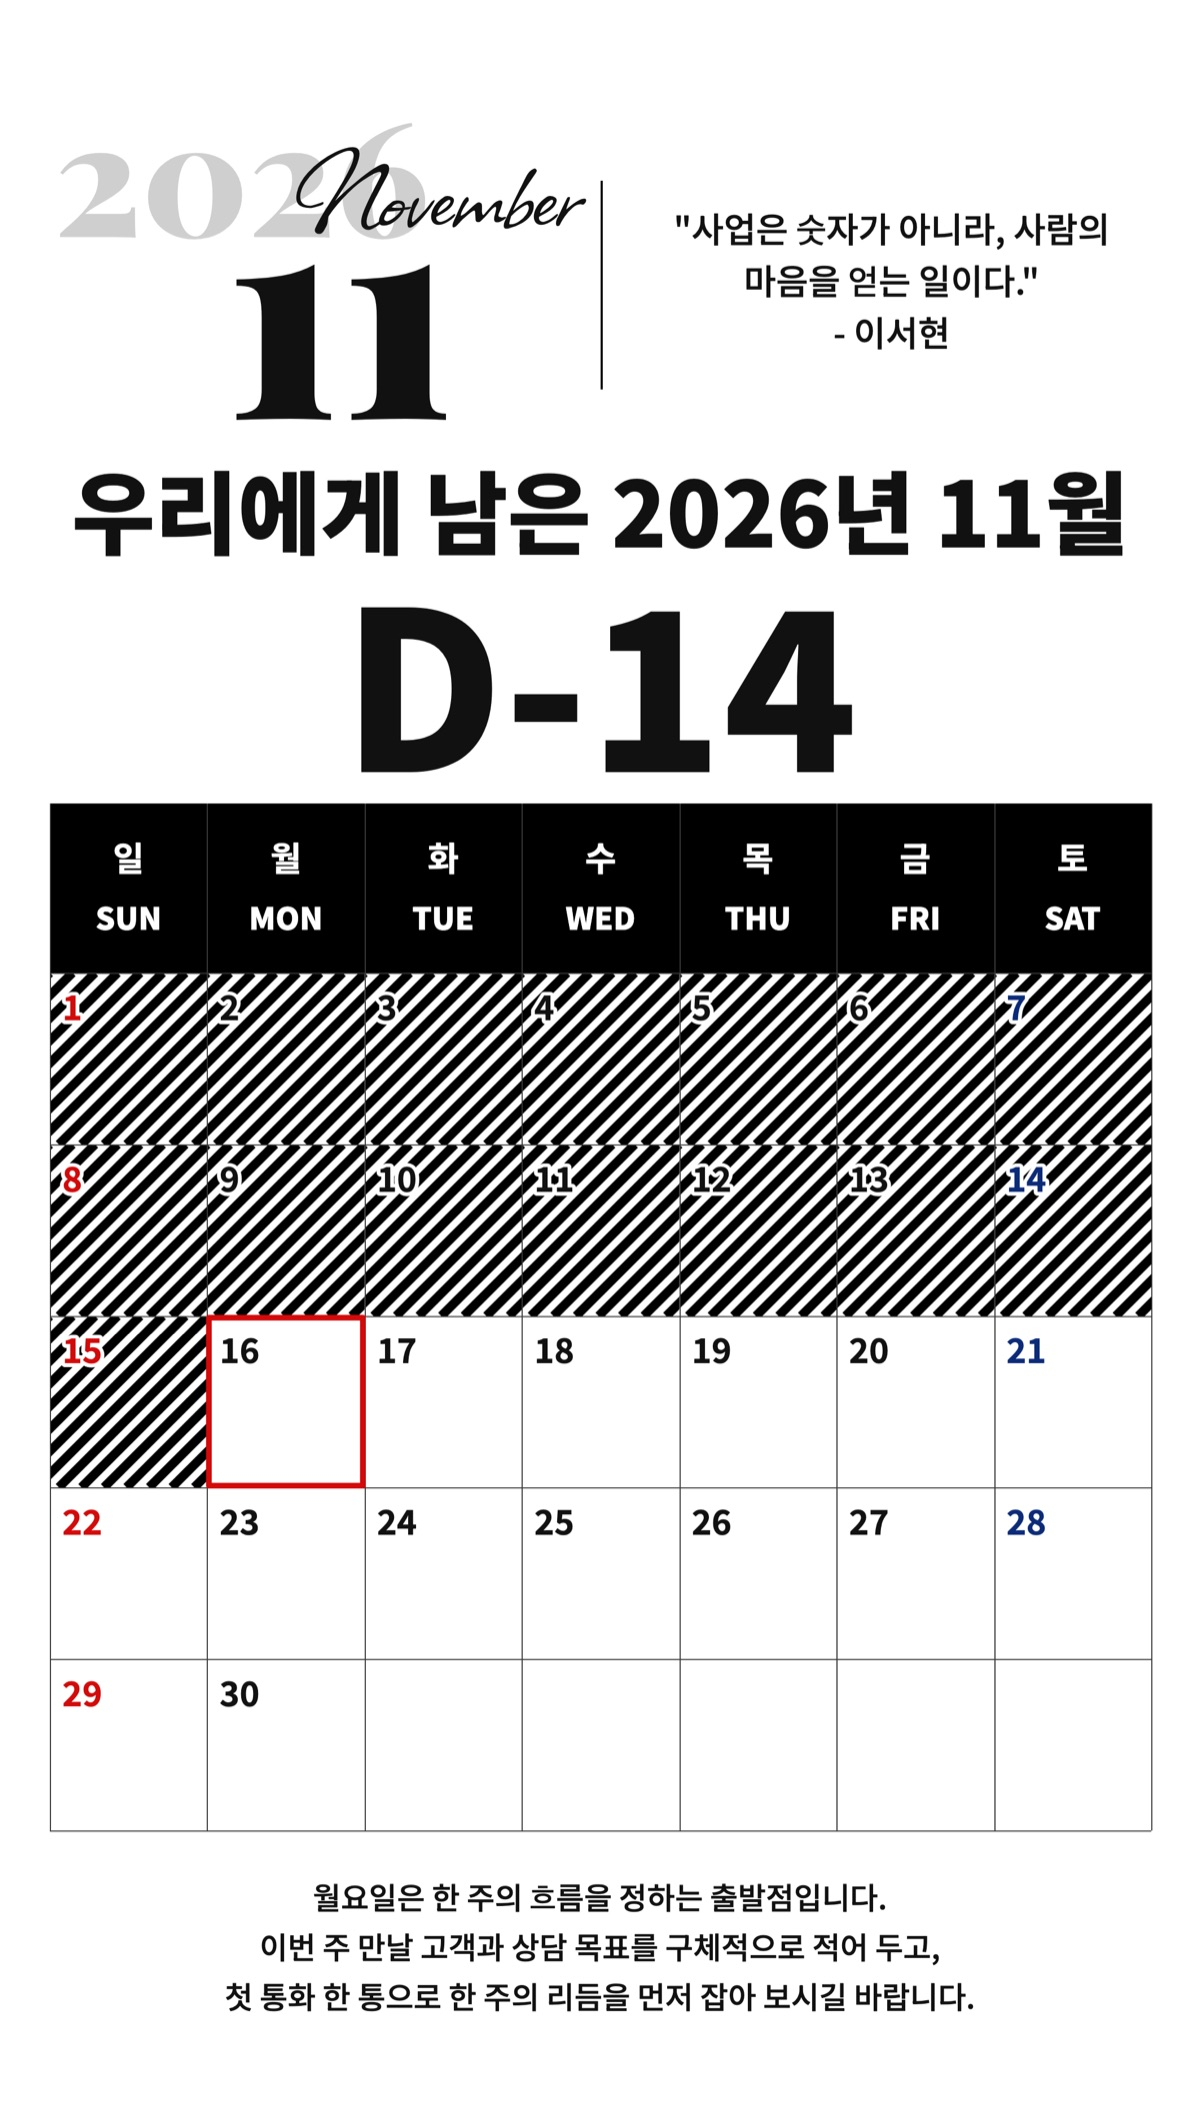
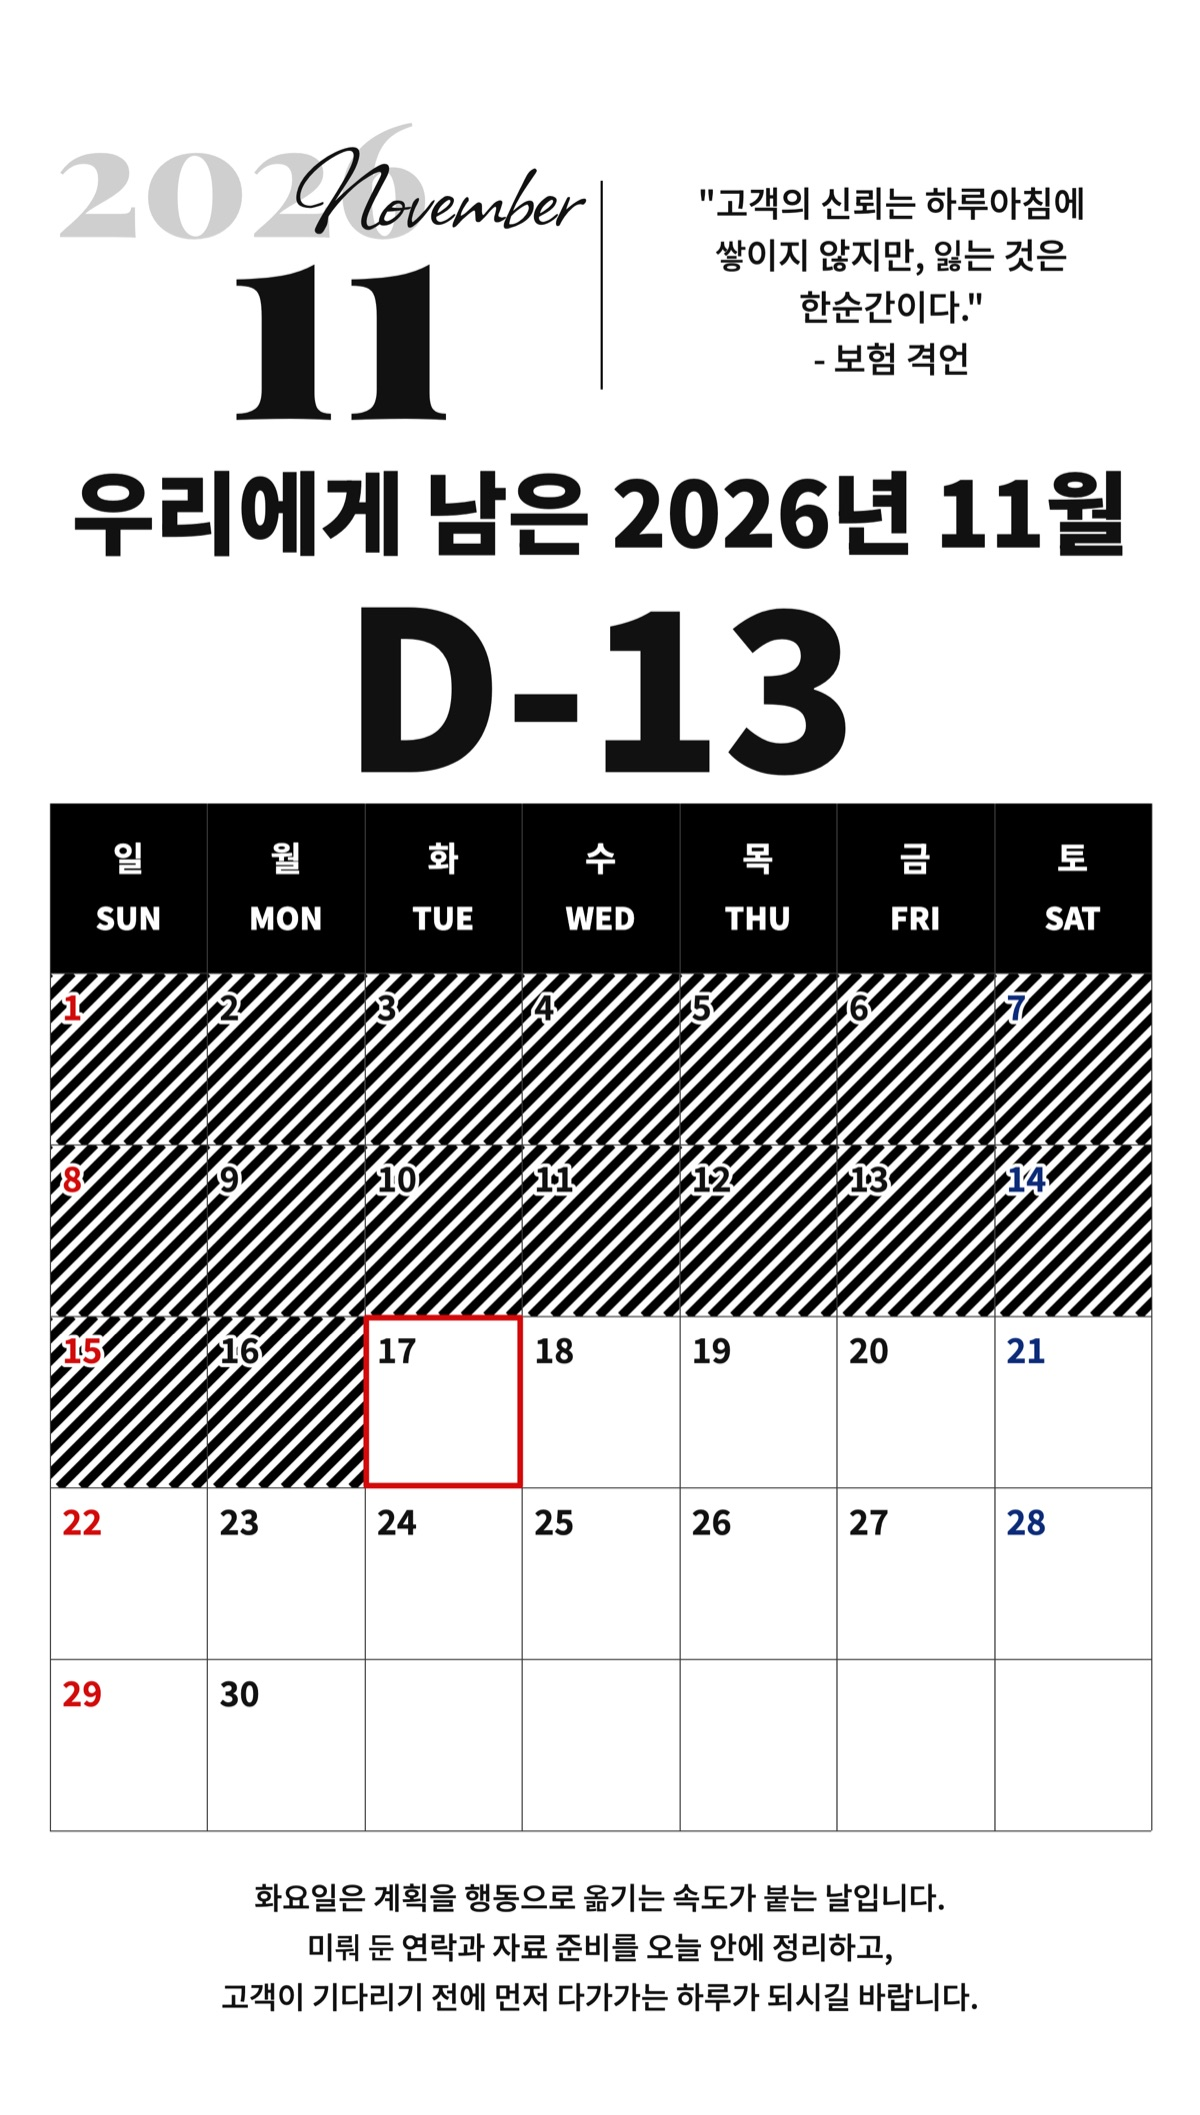
공부방 아침 11-17 (5장)

diff --git a/insight/20261117/index.html b/insight/20261117/index.html
@@ -1,0 +1,28 @@
+<!doctype html>
+<html lang="ko"><head><meta charset="utf-8">
+<meta name="viewport" content="width=device-width,initial-scale=1">
+<meta name="robots" content="noindex,nofollow">
+<title>보험인사이트 11/17(화)</title>
+<meta property="og:title" content="보험인사이트 11/17(화)">
+<meta property="og:description" content="MK 보험인사이트 · 오늘 바로 쓰는 상담 대화·퀴즈·고객 전달용 카드">
+<meta property="og:image" content="https://jungmookyung.github.io/bohum-hanip/insight/20261117/1.jpg">
+<meta property="og:url" content="https://jungmookyung.github.io/bohum-hanip/insight/20261117/">
+<meta property="og:type" content="article">
+<style>
+:root{--bg:#eef1f6;--fg:#0E1F54}
+@media (prefers-color-scheme:dark){:root{--bg:#0b1020;--fg:#dfe6ff}}
+body{margin:0;background:var(--bg);color:var(--fg);font-family:'Pretendard','Noto Sans KR',sans-serif}
+main{max-width:720px;margin:0 auto;padding:12px 12px 40px}
+h1{font-size:18px;margin:6px 4px 12px}
+img{display:block;width:100%;height:auto;margin:0 0 12px;border-radius:10px;box-shadow:0 1px 4px rgba(0,0,0,.12)}
+p{font-size:13px;opacity:.7;margin:4px}
+</style></head>
+<body><main>
+<h1>보험인사이트 11/17(화)</h1>
+<img src="1.jpg" alt="1장" loading="eager">
+<img src="2.jpg" alt="2장" loading="lazy">
+<img src="3.jpg" alt="3장" loading="lazy">
+<img src="4.jpg" alt="4장" loading="lazy">
+<img src="5.jpg" alt="5장" loading="lazy">
+<p>사진을 길게 누르면 저장할 수 있어요.</p>
+</main></body></html>
